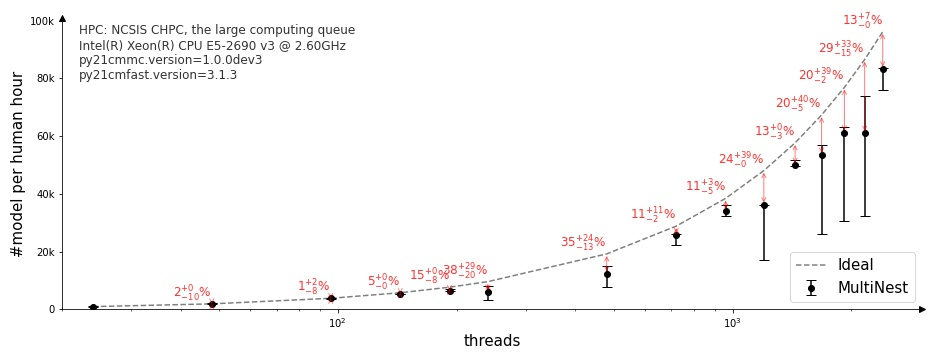
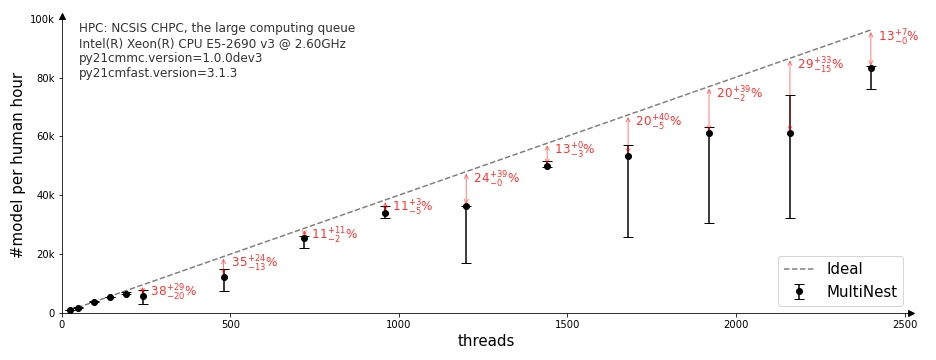
add description and update the plot to show linearility

diff --git a/README.rst b/README.rst
@@ -34,7 +34,7 @@ Scalability
 
 .. image:: docs/multinest_scalability.jpg
     :width: 866
-This plot shows the number of models performed using the MultiNest sampler as a function of thread number, illustrating an almost ideal scaling. There are three runs for each thread number, which are indicated by the filled circles with errorbar. The double sided arrows show the relative loss when scaling up the calculation. see more `here <https://github.com/21cmfast/21CMMC/issues/50/>`_.
+This plot shows the number of test models (see details `here <https://github.com/21cmfast/21CMMC/issues/50/#issuecomment-1091391508>_`) performed using the MultiNest sampler as a function of thread number, illustrating an almost ideal scalability where #model per human hour scales linearly with #thread. There are three runs for each thread number, which are indicated by the filled circles with errorbar. The double sided arrows show the relative (w.r.t. the 24-thread case) loss when scaling up the calculation. Note that a typical inference study, working with more complex models and therefore performing much fewer models per human hour, is expected to remain the same level of scalability.
 
 Documentation
 =============
